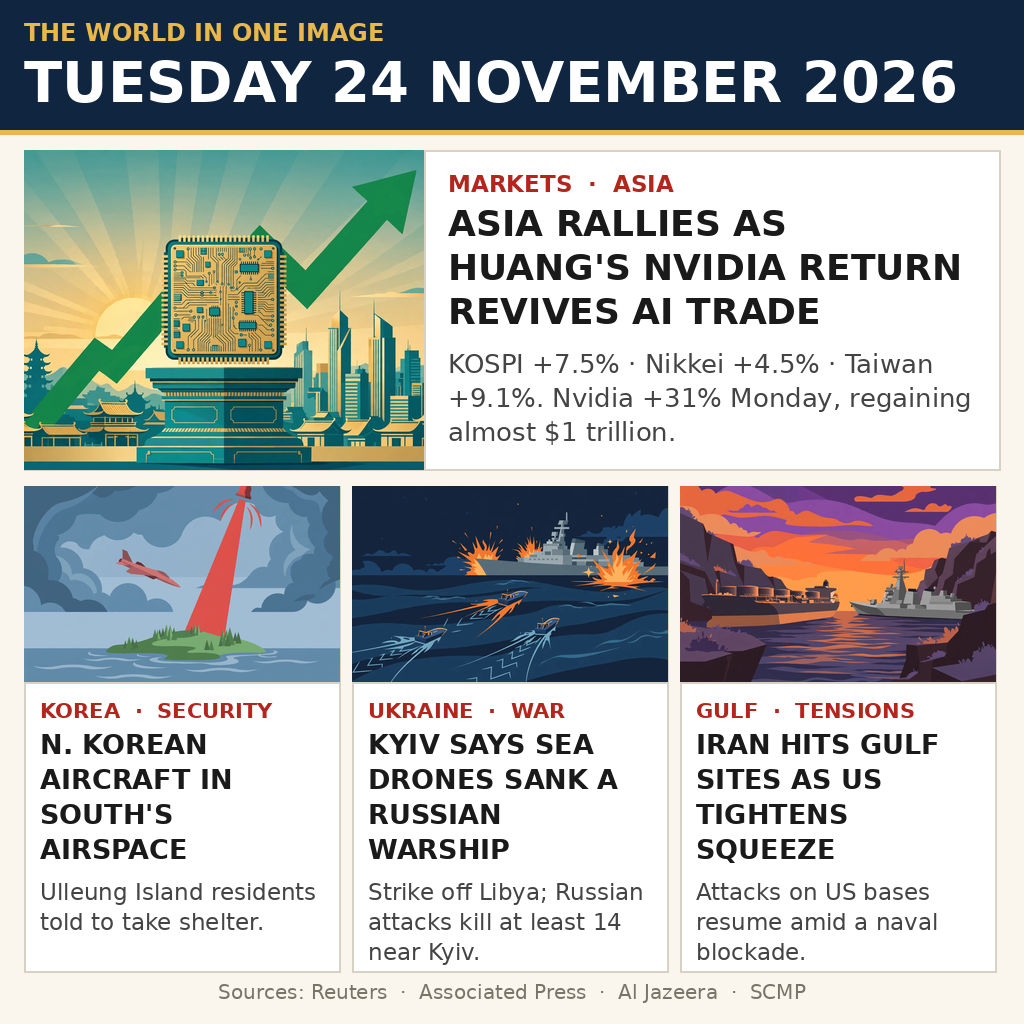
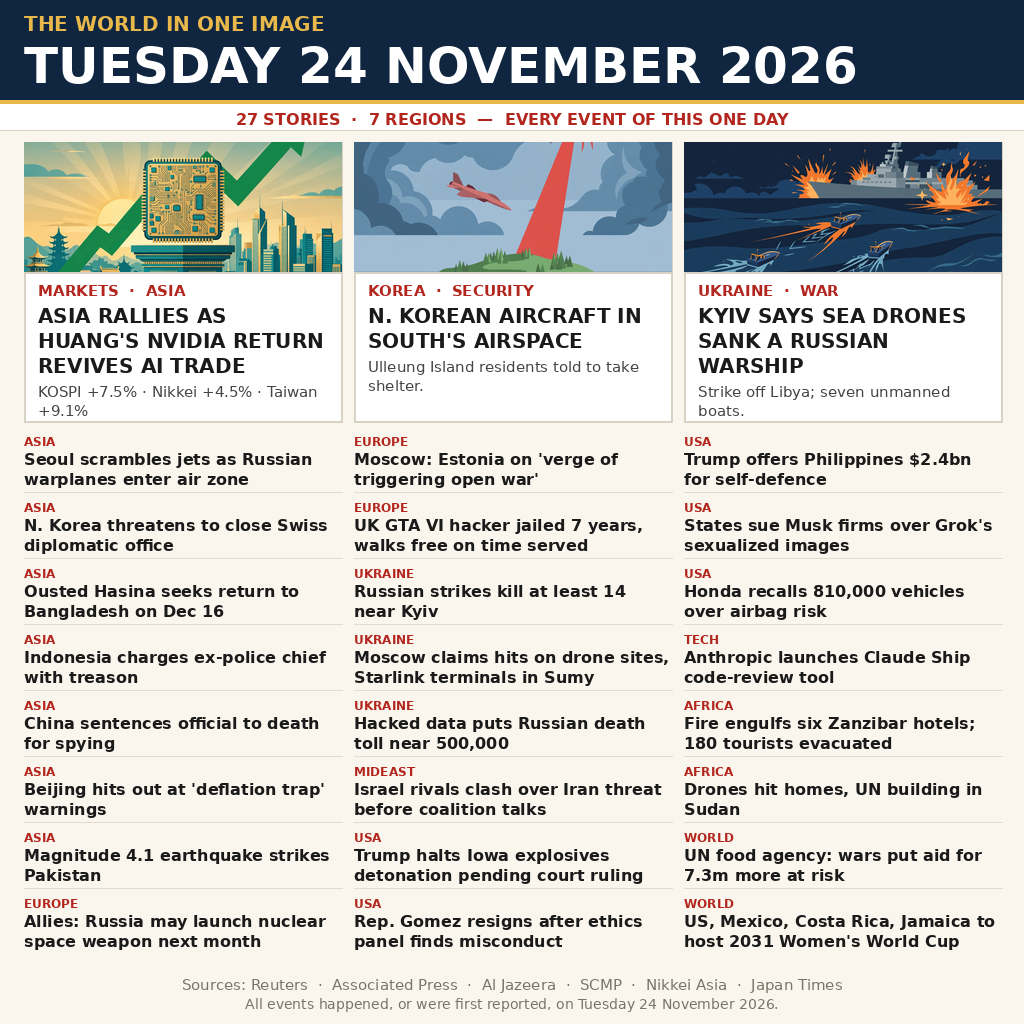
news-image: dense 27-story infographic in the winner pattern

diff --git a/main.ts b/main.ts
@@ -1,12 +1,14 @@
 // news-image-20261124 entry (Node 22, standard library only).
 //
-// The entry is one image, entry.png beside this file: a front-page poster
-// summing up the world news of Tuesday 24 November 2026 (Asian markets
-// rallying on Jensen Huang's return to Nvidia, a North Korean airspace
-// breach near Ulleung Island, Ukraine's sea-drone strike off Libya, and
-// rising Iran-US tensions in the Gulf). The program reads those exact
-// bytes and writes them to /output/entry.png, so every run produces the
-// same file the judge sees.
+// The entry is one image, entry.png beside this file: a dense front-page
+// infographic summing up the world news of Tuesday 24 November 2026 —
+// 27 stories across 7 regions, led by the Asia markets rally on Jensen
+// Huang's return to Nvidia, a North Korean airspace breach near Ulleung
+// Island, and Ukraine's sea-drone strike off Libya, with a region-tagged
+// list of 24 more stories below. Every story was checked against
+// reporting dated that day. The program reads those exact bytes and
+// writes them to /output/entry.png, so every run produces the same file
+// the judge sees.
 //
 // Outside the grader's container, MAKEFUN_OUTPUT_DIR stands in for /output:
 //   mkdir -p out && MAKEFUN_OUTPUT_DIR=out node main.ts
